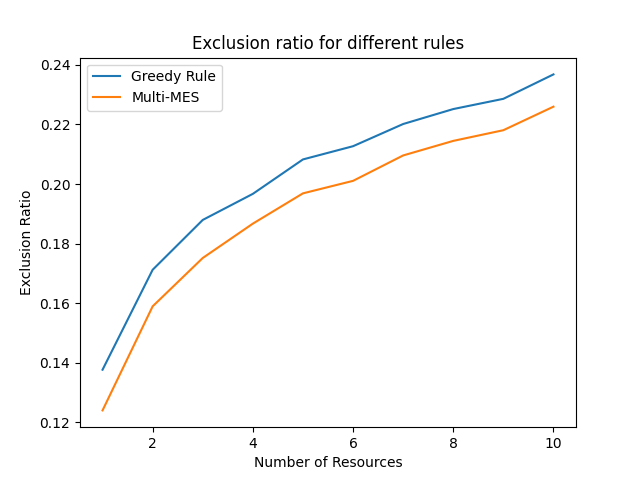
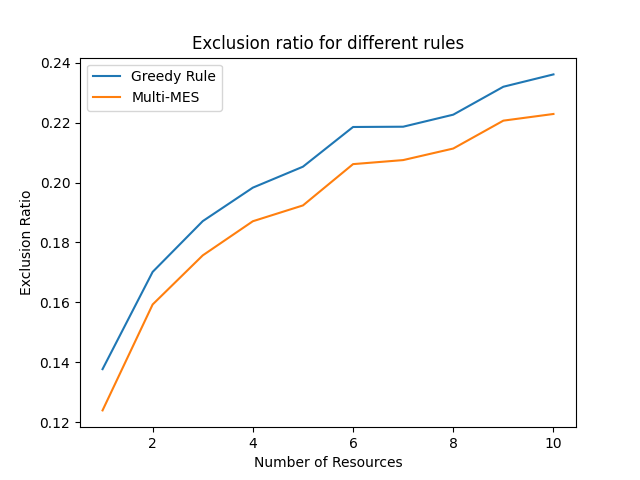
Changed the aggregation function function

diff --git a/environment/experiments.py b/environment/experiments.py
@@ -173,7 +173,7 @@ def ejrpa_one_test(instance:Minstance, profile:pbe.ApprovalProfile, rule) -> flo
 '''
 Graph Building Functions
 '''
-def graph_builder(x_ys:dict[str,dict[str, float]], x_title:str, y_title:str, graph_title:str, graph_name:str,  out_folder:str,):
+def graph_builder(x_ys:dict[str,dict[str, float]], x_title:str, y_title:str, graph_title:str, graph_name:str,  out_folder:str):
     """Generate a graph given the parameters
 
     Args:
@@ -414,12 +414,12 @@ def run_test_resources(test_name, max_resource:int, data_location:str, output_fo
     del graph_values
     gc.collect()
 
-def run_test_aggregation(functions:list, data_location:str, output_folder:str, running_print:bool=False, show_graph:bool = False):
+def run_test_aggregation(test_name, functions:list, data_location:str, output_folder:str, running_print:bool=False, show_graph:bool = False):
     """Run a given test for different aggregation functions with Multi-MES
 
 
     Args:
-        test_name (function): The test to run
+        test_name (function): The test to run. If False then will compare the functions
         functions (list[function]): The list of aggregation functions: list[float] -> float
         data_location (str): Where the dataset is stored
         output_folder (str): The folder to save graphs in
@@ -439,7 +439,7 @@ def run_test_aggregation(functions:list, data_location:str, output_folder:str, r
     counter = 0
     for path in paths:
         # Generate instance
-        _, instance, profile = parse(path, 2)
+        _, instance, profile = parse(path, 5)
         projects = len(instance)
         voters = len(profile)
 
@@ -452,33 +452,64 @@ def run_test_aggregation(functions:list, data_location:str, output_folder:str, r
             print(f"Instance {counter} of {num_paths}")
             print("...................................")
 
-        outputs = dict([(x.__name__,0) for x in functions])
-        for f in functions:
-            # Add the outcome of the test to the dictionary
-            if running_print:
-                print(f"Multi-MES({f.__name__})", end='')
+        
+        if test_name == False:
+            outputs = dict([(x.__name__,0) for x in functions])
+            for f in functions:
+                # Add the outcome of the test to the dictionary
+                if running_print:
+                    print(f"Multi-MES({f.__name__})", end='')
 
-            outputs[f.__name__] = multi_method_equal_shares(instance.copy(), profile.copy(), f, False)
+                outputs[f.__name__] = multi_method_equal_shares(instance.copy(), profile.copy(), f, False)
 
-            if running_print:
-                print(" Done")
+                if running_print:
+                    print(" Done")
+            del instance
+            del profile
+            gc.collect()
 
-        # Count number of differences
-        for f,g in combinations(functions, 2):
-            if  not outputs[f.__name__] == outputs[g.__name__]:
-                # Add 1 to the numbers of differences
-                mes[f'{f.__name__},{g.__name__}'] += 1
-        del instance
-        del profile
-        gc.collect()
+            # Count number of differences
+            for f,g in combinations(functions, 2):
+                if  not outputs[f.__name__] == outputs[g.__name__]:
+                    # Add 1 to the numbers of differences
+                    mes[f'{f.__name__},{g.__name__}'] += 1
+                
+            
+        else:
+            outputs = dict([(x.__name__,[]) for x in functions])
+            for f in functions:
+                if running_print:
+                    print(f"Multi-MES({f.__name__})", end='')
+                
+                # Run the desired test on multi-mes with the aggregation function f
+                outputs[f.__name__].append(test_name(instance.copy(), profile.copy(), lambda i,p: multi_method_equal_shares(i,p,f,False)))
 
-    # Create the bar graph
-    plt.figure("Differences")
-    plt.bar(mes.keys(), [x/num_paths for x in mes.values()])
-    plt.xlabel("Aggregation Function")
-    plt.ylabel("Proportion of instances where output differs")
-    plt.title("How the output of different aggregation functions differ")
-    plt.savefig(f"{output_folder}/diff_aggregation.png")
+                if running_print:
+                    print(" Done")
+            del instance
+            del profile
+            gc.collect()
+
+            mes = dict([(f.__name__,np.mean(outputs[f.__name__])) for f in functions])
+            
+            
+    if test_name == False:
+        # Create the bar graph
+        plt.figure("Differences")
+        plt.bar(mes.keys(), [x/num_paths for x in mes.values()])
+        plt.xlabel("Aggregation Function")
+        plt.ylabel("Proportion of instances where output differs")
+        plt.title("How the output of different aggregation functions differ")
+        plt.savefig(f"{output_folder}/diff_aggregation.png")
+    else:
+        meta = test_metadata(test_name, "aggregation")
+        # Create the bar graph
+        plt.figure(meta[2])
+        plt.bar(mes.keys(), mes.values())
+        plt.xlabel("Aggregation Function")
+        plt.ylabel(meta[0])
+        plt.title(meta[1])
+        plt.savefig(f"{output_folder}/{meta[2]}.png")
 
     if show_graph:
         plt.show()

diff --git a/environment/main.py b/environment/main.py
@@ -38,8 +38,9 @@ def batch_run(seed):
     rand.seed(seed)
 
     t1 = time()
-    run_test_resources(runtime_test, 10, './environment/datasets_resources', './environment/plots_batch', False, False)
-    run_test_resources(exclusion_test, 10, './environment/datasets_resources', './environment/plots_batch', False, False)
+    run_test_aggregation(exclusion_test, [np.max, np.min, np.mean, np.median], './environment/datasets_under_30', './environment/plots', True, True)
+    #run_test_resources(runtime_test, 10, './environment/datasets_resources', './environment/plots_batch', False, False)
+    #run_test_resources(exclusion_test, 10, './environment/datasets_resources', './environment/plots_batch', False, False)
     #run_test_projects(ejrplus_alldim_test, './environment/datasets_extended', './environment/plots_batch', True)
     #run_test_resources(ejrplus_conversion_test, 10, './environment/datasets_resources', './environment/plots_batch', True, False)
     #run_test_resources(ejrpc_one_test, 10, './environment/datasets_resources', './environment/plots_batch', True, False)
@@ -50,9 +51,9 @@ def batch_run(seed):
     t2 = time()
 
     def to_hours(x):
-        h = floor(x/3600)
-        m = floor(x/60 - h*60)
-        return f"{h}:{m}"
+        h = int(floor(x/3600))
+        m = int(floor(x/60 - h*60))
+        return f"{h} hours and {m} minutes"
 
     print("Done")
     print(f"Time taken: {to_hours(t2-t1)}")
